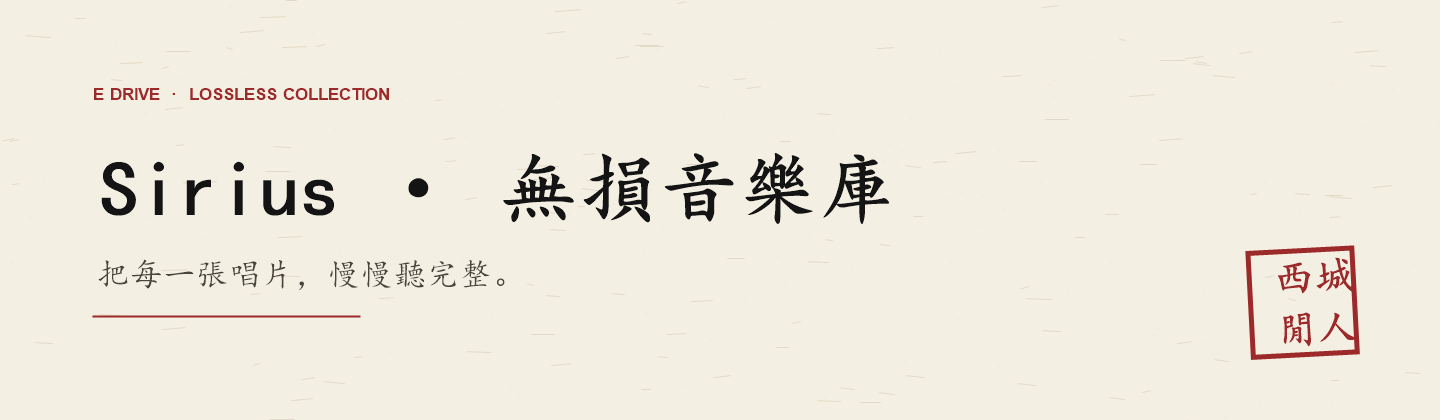
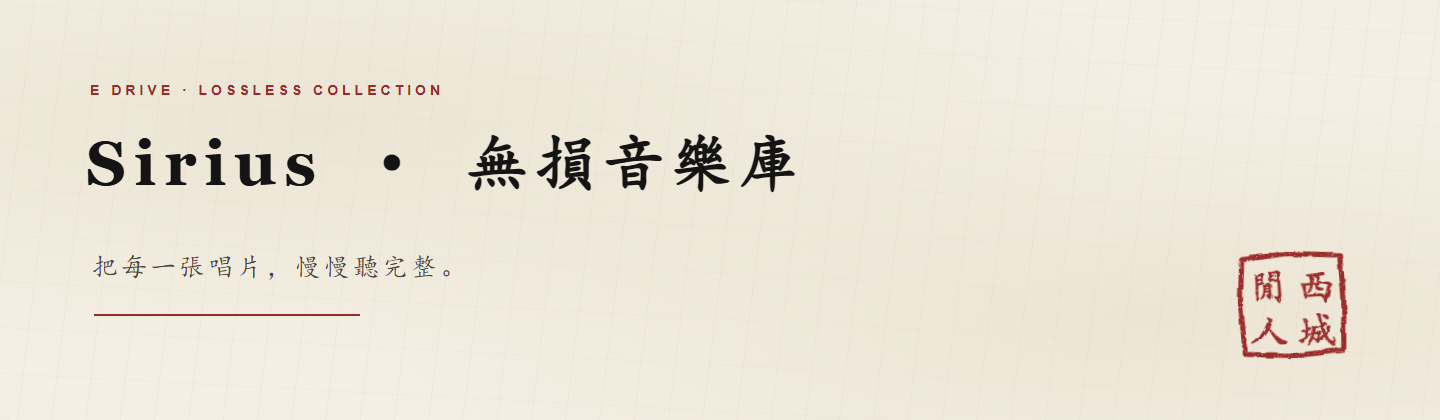
docs: 印章做舊斑駁、徽章自繪去外鏈、README 改寫文言

diff --git a/README.md b/README.md
@@ -8,11 +8,11 @@
 <sub>― 把每一張唱片，慢慢聽完整 ―</sub>
 <br>
 
-[![Node.js](https://img.shields.io/badge/Node.js-%E2%89%A518-flat-square?color=141414)](https://nodejs.org/)
-[![Python](https://img.shields.io/badge/Python-3-flat-square?color=141414)](https://www.python.org/)
-[![Frontend](https://img.shields.io/badge/Frontend-Vanilla%20JS-flat-square?color=141414)](#法)
-[![Database](https://img.shields.io/badge/Database-None-flat-square?color=9C2A2A)](#法)
-[![Deploy](https://img.shields.io/badge/Scope-Local%20%2F%20LAN%20%2F%20Tunnel-flat-square?color=141414)](#法)
+[![Node.js](docs/assets/badge-node.svg)](https://nodejs.org/)
+[![Python](docs/assets/badge-python.svg)](https://www.python.org/)
+[![Frontend](docs/assets/badge-frontend.svg)](#法)
+[![Database](docs/assets/badge-database.svg)](#法)
+[![Access](docs/assets/badge-access.svg)](#法)
 
 <br>
 <sub>[序](#序) · [覽](#覽) · [器](#器) · [法](#法) · [護](#護)</sub>
@@ -24,51 +24,51 @@
 
 ## 序 <a id="序"></a>
 
-本專案是一套個人無損音樂庫播放器：**單文件前端頁面** 加 **一個 Node 靜態服務**，無構建、無依賴、無資料庫。
+斯庫者，私家無損唱片之藏也。**一頁 HTML 為之器，一 Node 靜態服務為之樞**；無構建、無依賴、無資料庫。
 
-本地收藏的 FLAC 等無損唱片整理成封面牆，可按藝人、類型、年代、音質篩選與逐曲搜尋；點入專輯是以黑膠旋轉為視覺中心的播放頁，附曲目表、藝人與專輯筆記、歌詞與底部迷你播放條。同一套程式可在本機直聽、區域網路分享，亦可經臨時隧道對外開放聆聽。
+所藏 FLAC 諸碟，列為封面之牆：可按藝人、類型、年代、音質而篩，可逐曲而索。點入一碟，則黑膠徐轉、唱臂輕落，曲目居中，藝人與專輯之筆記分列左右，歌詞隨曲而行；既出唱片之頁，底部迷你條猶可操之。
 
-播放鏈路不經資料庫：頁面樣式、腳本、圖標、字體全部內嵌，除歌詞站 `lrclib.net` 外不依賴任何 CDN 或外部服務。
+一器而三用：本機直聽，區域網路共賞，臨時隧道遠饋。樣式、腳本、圖標、字體，皆內嵌於一頁；除歌詞站 `lrclib.net` 外，不假 CDN，不倚外物。
 
 ---
 
 ## 覽 <a id="覽"></a>
 
-**封面牆** —— 頂部為篩選與搜尋，主體是專輯封面牆；右側書籤式「換一批」更換一組推薦專輯，側欄為庫的足跡時間軸。
+**封面之牆** —— 上為篩選搜尋，中為專輯封面；右側「換一批」易一組推薦，側欄則庫之足跡時間軸也。
 
 ![封面牆](docs/assets/screenshot-home.png)
 
-<sub>※ 首頁：全部 / 按藝人 / 按類型 / 按年代 / 按音質 篩選，搜尋藝人、專輯或曲目。</sub>
+<sub>※ 首頁：全部 / 按藝人 / 按類型 / 按年代 / 按音質，兼可索藝人、專輯與曲目。</sub>
 
-**播放頁** —— 黑膠與唱臂為視覺中心，曲目表居中，左右兩欄為藝人介紹與專輯筆記；離開唱片頁後，底部迷你條仍可繼續控制。
+**唱片之頁** —— 黑膠唱臂為視覺之心，曲目居中，左右兩欄為藝人介紹與專輯筆記；去頁之後，迷你條仍可續控。
 
 ![播放頁](docs/assets/screenshot-player.png)
 
-<sub>※ 播放頁：黑膠旋轉、順序 / 單曲循環 / 亂序、淡入淡出開關、歌詞區。</sub>
+<sub>※ 播放頁：黑膠旋轉、順序 / 單曲循環 / 亂序、淡入淡出之關、歌詞之區。</sub>
 
 ---
 
 ## 器 <a id="器"></a>
 
-<sub>※ 公共倉庫僅含程式與文件；音訊、封面、歌詞與資料檔均被 `.gitignore` 排除，clone 下來只有程式。</sub>
+<sub>※ 公倉所載，惟程式與文書；音訊、封面、歌詞、資料皆擯於 `.gitignore`，clone 所得，止於程式。</sub>
 
-| 編號 | 路徑 | 內容 | 進 Git |
+| 編號 | 路徑 | 內容 | 入 Git |
 |---|---|---|:---:|
-| 〇一 | `音乐库.html` | 單文件播放器，樣式與腳本內嵌 | 是 |
-| 〇二 | `music-server.js` | 本機靜態服務，8099 埠，支援 Range/206、gzip、ETag | 是 |
-| 〇三 | `watchdog.js` | 每 30 秒探測服務，連續失敗 2 次後自動拉起 | 是 |
-| 〇四 | `tunnel.js` | Cloudflare 臨時隧道守護進程，地址寫入本地檔案 | 是 |
-| 〇五 | `start-all.js` | detached 子進程拉起服務與 watchdog 後退出 | 是 |
-| 〇六 | `启动器/*.vbs` | Windows 雙擊啟動器：服務 / 隧道 / 全部 | 是 |
-| 〇七 | `音乐库.py` | 維護工具統一入口 | 是 |
-| 〇八 | `tools/*.py` | 導入、拆軌、校準、檢查、歌詞模組 | 是 |
-| 〇九 | `库维护须知.md` | 資料規則、維護流程與故障記錄 | 是 |
-| — | `data.js` | 專輯與曲目中繼資料 | 否 |
-| — | `durations.js` | 曲目真實時長與播放偏移修正表 | 否 |
-| — | `_covers/` | 專輯封面縮略圖 | 否 |
-| — | `_lyrics/` | 按專輯下標命名的歌詞分片 | 否 |
-| — | `无损/` | 無損音訊檔案及專輯目錄 | 否 |
-| — | `_备份/` · `_logs/` · `_下载/` | 歷史備份、訪問與守護日誌、外部程式 | 否 |
+| 〇一 | `音乐库.html` | 單文件播放器，樣式腳本皆內嵌 | 是 |
+| 〇二 | `music-server.js` | 本機靜態服務，8099 埠，Range/206、gzip、ETag 俱備 | 是 |
+| 〇三 | `watchdog.js` | 每三十秒一探，連失二次則復起之 | 是 |
+| 〇四 | `tunnel.js` | Cloudflare 臨時隧道之守護，址書於本地檔 | 是 |
+| 〇五 | `start-all.js` | detached 子進程起服務與 watchdog，事畢自退 | 是 |
+| 〇六 | `启动器/*.vbs` | Windows 雙擊之器：服務 / 隧道 / 全部 | 是 |
+| 〇七 | `音乐库.py` | 維護諸令之總門 | 是 |
+| 〇八 | `tools/*.py` | 導入、拆軌、校準、檢查、歌詞諸模組 | 是 |
+| 〇九 | `库维护须知.md` | 資料之規、維護之法、故障之錄 | 是 |
+| — | `data.js` | 專輯曲目之中繼資料 | 否 |
+| — | `durations.js` | 曲目真實時長與偏移修正之表 | 否 |
+| — | `_covers/` | 專輯封面縮圖 | 否 |
+| — | `_lyrics/` | 依專輯下標命名之歌詞分片 | 否 |
+| — | `无损/` | 無損音訊與專輯目錄 | 否 |
+| — | `_备份/` · `_logs/` · `_下载/` | 舊備份、諸日誌、外部程式 | 否 |
 
 ---
 
@@ -78,38 +78,38 @@
 
 | 依 | 所需 | 取之之法 |
 |---|---|---|
-| Node.js | 服務與頁面播放，≥ 18 | 官網安裝 LTS 版本 |
-| Python 3 | 維護工具（可選，僅入庫 / 拆軌 / 校準時需要） | 官網安裝 |
+| Node.js | 服務與播放，≥ 18 | 官網取 LTS 版 |
+| Python 3 | 維護之器（可選，惟入庫 / 拆軌 / 校準時需之） | 官網取之 |
 
 ### 啟動
 
 ```powershell
 # Windows：雙擊 启动器\启动音乐库服务器.vbs
-# 或在專案目錄命令行執行
+# 或於專案目錄行之
 node music-server.js
 ```
 
-瀏覽器打開 `http://127.0.0.1:8099/` 即可。想連同隧道一起啟動，雙擊 `启动器\启动全部.vbs`。
+瀏覽器啟 `http://127.0.0.1:8099/` 可也。欲並隧道而起，雙擊 `启动器\启动全部.vbs`。
 
-亦可直接雙擊 `音乐库.html` 以 `file://` 打開聆聽；**入庫操作必須經本機服務**，純靜態打開只能聽。
+亦可雙擊 `音乐库.html`，以 `file://` 直啟而聽；**惟入庫必經本機服務**——徒啟靜頁，可聽而不可納。
 
-### 維護命令
+### 維護諸令
 
-統一入口為 `python 音乐库.py <子命令>`：
+總門惟一：`python 音乐库.py <子命令>`。
 
 ```powershell
-python 音乐库.py 导入    # 掃描目錄、查重並提交入庫
-python 音乐库.py 拆轨    # 整軌音頻按 CUE / 軌距拆分逐曲
-python 音乐库.py 校准    # 校準曲目時長與偏移，只動音訊頭部欄位
-python 音乐库.py 检查    # 資料與檔案一致性自檢
-python 音乐库.py 歌词    # 抓取並離線整理歌詞分片
+python 音乐库.py 导入    # 掃描目錄、查重而納之
+python 音乐库.py 拆轨    # 整軌之音，按 CUE 析為逐曲
+python 音乐库.py 校准    # 正時長與偏移，惟動音訊頭部之欄
+python 音乐库.py 检查    # 資料與檔案，核其一致
+python 音乐库.py 歌词    # 採歌詞而離線整之
 ```
 
-<sub>※ 改資料前先讀 `库维护须知.md`，並先備份 `data.js`；維護操作只在本機執行。</sub>
+<sub>※ 凡改資料，先讀 `库维护须知.md`，先備 `data.js`；維護之事，止行於本機。</sub>
 
-### 資料結構
+### 資料之構
 
-`data.js` 為 JavaScript 賦值，首行 `window.LIB_DATA=`，末尾以分號結束：
+`data.js` 者，JavaScript 賦值也：首行 `window.LIB_DATA=`，末以分號終。
 
 ```text
 {
@@ -123,71 +123,71 @@ python 音乐库.py 歌词    # 抓取並離線整理歌詞分片
 }
 ```
 
-所有欄位均為字串（`year` 無法確認時留空，頁面顯示「未標年」，不作猜測）。`rel` 是從專案根算起的專輯目錄（以 `无损/` 開頭），`tracks[].p` 是該目錄內的音訊檔名。
+諸欄皆字串。`year` 無據則闕，頁示「未標年」，不妄猜也。`rel` 者，自專案根起之專輯目錄（以 `无损/` 為首）；`tracks[].p` 者，其目錄內之音訊檔名也。
 
-### 目錄命名規矩
+### 目錄命名之規
 
-專輯目錄統一採用 `(年份) 專輯名 [位深-採樣率] CD1`，例如 `(2001) 專輯名 [24-96] CD1`；解析不到年份就留空。
+專輯目錄，一律 `(年份) 專輯名 [位深-採樣率] CD1`，如 `(2001) 專輯名 [24-96] CD1`；年份不辨則闕，毋臆。
 
-### 頁面依賴
+### 頁面所倚
 
-**硬依賴只有兩個：`data.js` 與 `无损/`**，缺任何一個頁面都不成立；其餘皆為加分項，缺了只降級不罷工。
+**硬依賴惟二：`data.js` 與 `无损/`**——闕一則頁不立；其餘皆增益之物，闕之惟降級，不罷工也。
 
-| 依賴 | 必需 | 缺了會怎樣 |
+| 所倚 | 必需 | 闕之何如 |
 |---|:---:|---|
-| `data.js` | 是 | 首頁空白，頂部提示資料缺失 |
-| `无损/<rel>/<p>` | 是 | 封面牆仍在，但每一首都播不出來 |
-| `durations.js` | 否 | 改用音訊頭裡的時長；頭部寫錯的曲目拖進度會跳到結尾 |
-| `_covers/<coverFile>` | 否 | 退回專輯目錄內原圖；再沒有就顯示首字佔位塊 |
-| `_lyrics/a<下標>.js` | 否 | 該專輯退回聯網搜尋 lrclib；搜不到則只顯示純曲目 |
-| `/api/*` 介面 | 否 | 僅入庫流程使用；雙擊打開仍能聽，只是不能入庫 |
+| `data.js` | 是 | 首頁空白，頂示資料之失 |
+| `无损/<rel>/<p>` | 是 | 封面之牆猶在，然曲曲不可播 |
+| `durations.js` | 否 | 改信音訊頭中之時長；頭誤之曲，曳進度即墜末尾 |
+| `_covers/<coverFile>` | 否 | 退取專輯目錄內原圖；復無，則示首字佔位之塊 |
+| `_lyrics/a<下標>.js` | 否 | 是碟退而聯網索諸 lrclib；索之不得，惟示純曲目 |
+| `/api/*` 諸介面 | 否 | 惟入庫用之；雙擊而啟者猶可聽，惟不可納 |
 
-本機服務提供的介面：`/api/ping`、`/api/import/scan`、`POST /api/import/commit`、`POST /api/import/probe`、`POST /api/import/folder`、`POST /api/browse`。播放鏈路不經過它們。
+本機服務所供：`/api/ping`、`/api/import/scan`、`POST /api/import/commit`、`POST /api/import/probe`、`POST /api/import/folder`、`POST /api/browse`。播放之鏈，不經諸此。
 
 ---
 
 ## 護 <a id="護"></a>
 
 <details>
-<summary>克隆下來為何沒有專輯、封面與音樂？</summary>
+<summary>克隆既畢，何以無碟無聲？</summary>
 
-<br>公共倉庫不包含私人資料。`无损/`、`_covers/`、`_lyrics/`、`data.js`、`durations.js`、`_备份/`、`_下载/`、`_logs/` 與隧道地址檔全部被 `.gitignore` 排除。需依照上文資料結構自行準備專輯中繼資料，並按 `rel` 與曲目檔名組織音訊目錄。
+<br>公倉不藏私物。`无损/`、`_covers/`、`_lyrics/`、`data.js`、`durations.js`、`_备份/`、`_下载/`、`_logs/` 與隧道地址檔，皆為 `.gitignore` 所擯。欲自成一庫，依上文之構自備中繼資料，按 `rel` 與檔名安置音訊，而後啟服務可也。
 </details>
 
 <details>
-<summary>為什麼入庫只能在本機進行？</summary>
+<summary>入庫何以止於本機？</summary>
 
-<br>服務只允許 loopback 請求寫盤；區域網路與隧道訪問僅用於聆聽，不開放遠端入庫、改資料或寫檔。
+<br>服務惟許 loopback 之請寫盤；區域網路與隧道之客，止於聽，不與寫——遠端不可入庫、不可改資料、不可動檔案。
 </details>
 
 <details>
-<summary>歌詞分片為何不允許在中間刪除或重排專輯？</summary>
+<summary>歌詞分片，何以忌中刪中移？</summary>
 
-<br>`_lyrics/a<專輯下標>.js` 按陣列下標命名。一旦在中間插入、刪除或重排，後續分片會全部指向錯誤的專輯，歌詞錯位。新專輯只能追加到 `albums` 陣列末尾；刪除專輯後須重編全部歌詞分片。
+<br>`_lyrics/a<專輯下標>.js` 以陣列下標為名。中插、中刪、重排，則其後諸片皆指錯碟，歌詞盡亂。故新碟惟可追加於 `albums` 之末；既刪一碟，須盡重編其片。
 </details>
 
 <details>
-<summary>隧道網址為何每次重啟都變？</summary>
+<summary>隧道之址，何以屢易？</summary>
 
-<br>使用的是 Cloudflare 臨時隧道，地址隨進程重啟更換；當前地址查看本機地址檔即可，勿將臨時地址寫入 README 或提交進倉庫。
+<br>所用者，Cloudflare 臨時隧道也，址隨進程重啟而更。今址觀本機地址檔即可；慎勿書於 README，慎勿付諸倉庫。
 </details>
 
 <details>
-<summary>整軌 WAV / 整張專輯如何入庫？</summary>
+<summary>整軌之碟，何以入庫？</summary>
 
-<br>整軌音頻須先拆成逐曲檔案，入庫按一個音訊檔對應一首曲目處理；可使用 `python 音乐库.py 拆轨`。
+<br>整軌須先析為逐曲——一檔一曲，而後納之。`python 音乐库.py 拆轨` 可任其事。
 </details>
 
 <details>
-<summary>某些曲目為何播不出來？</summary>
+<summary>曲有不可播者，何也？</summary>
 
-<br>能否播放取決於瀏覽器支援的音訊格式，建議使用 Chrome / Edge；本地檔案缺失或損壞時，對應曲目自然無法播放，可先跑 `python 音乐库.py 检查` 核對檔案一致性。
+<br>一曰瀏覽器所支之格式有限，宜用 Chrome / Edge；二曰本地檔案闕失或損，其曲自不可播。可先行 `python 音乐库.py 检查`，以核資料與檔案之合。
 </details>
 
 <details>
-<summary>`durations.js` 為何不建議手改？</summary>
+<summary>`durations.js` 何以不宜手改？</summary>
 
-<br>`LIB_DUR` 為曲目時長表，`LIB_OFF` 為播放偏移表，`LIB_BAD` 標記已知異常時長項，由 `校准` 子命令生成與維護；目錄變更須同步對應鍵，改前保留 `_备份/` 內的原值回滾點。
+<br>`LIB_DUR` 者，時長之表；`LIB_OFF` 者，偏移之表；`LIB_BAD` 者，已知異常之誌——皆 `校准` 所生所養。目錄既改，諸鍵須隨；改前留 `_备份/` 原值，以為回滾之地。
 </details>
 
 ---
